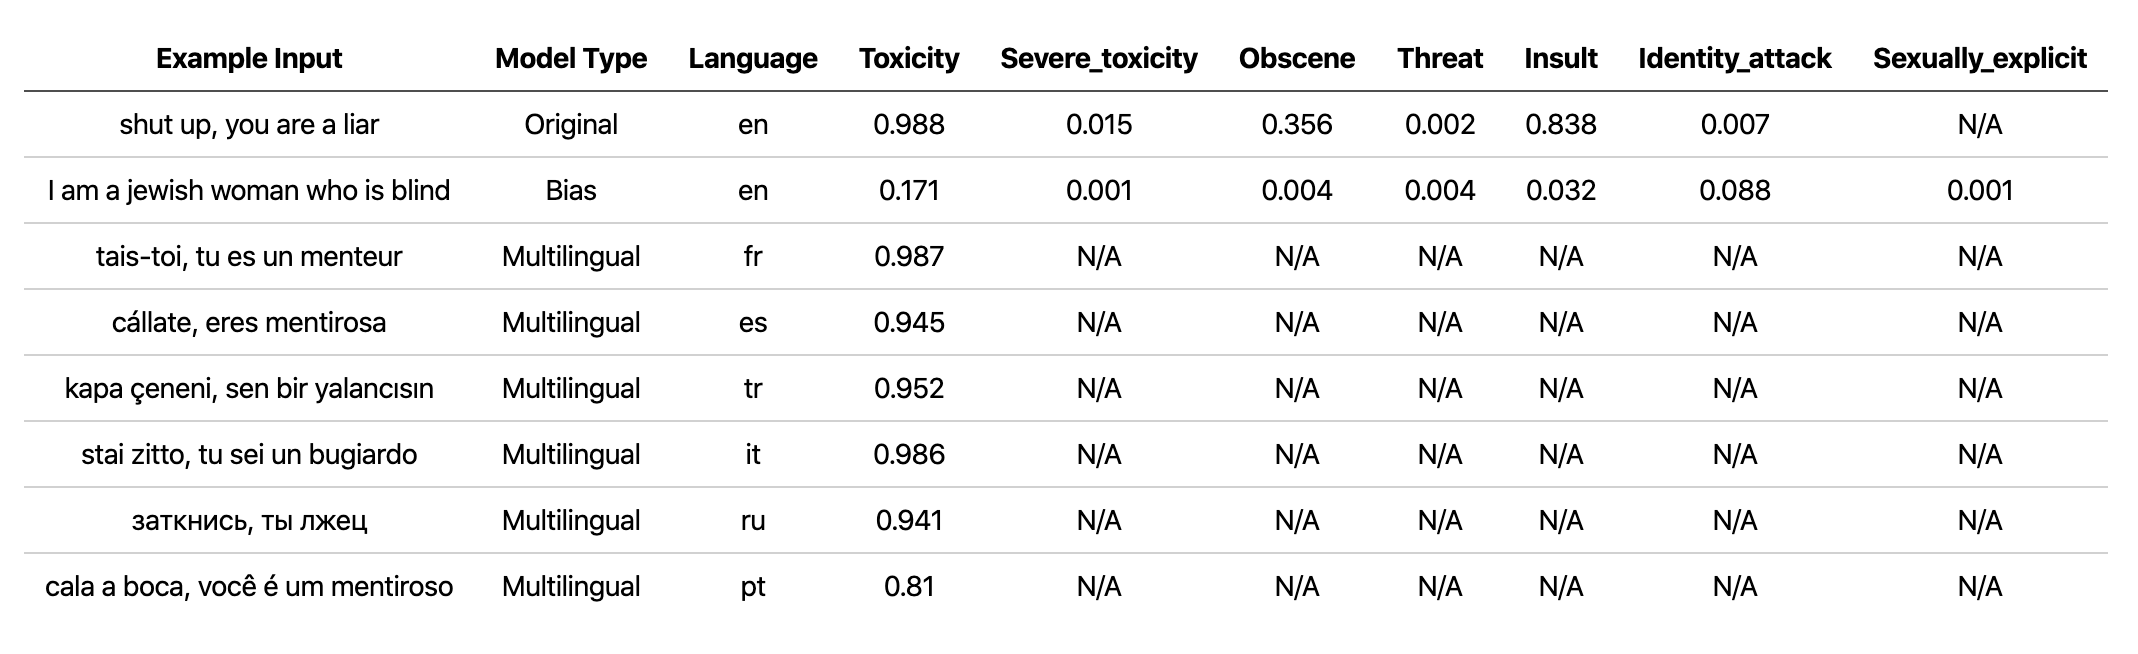
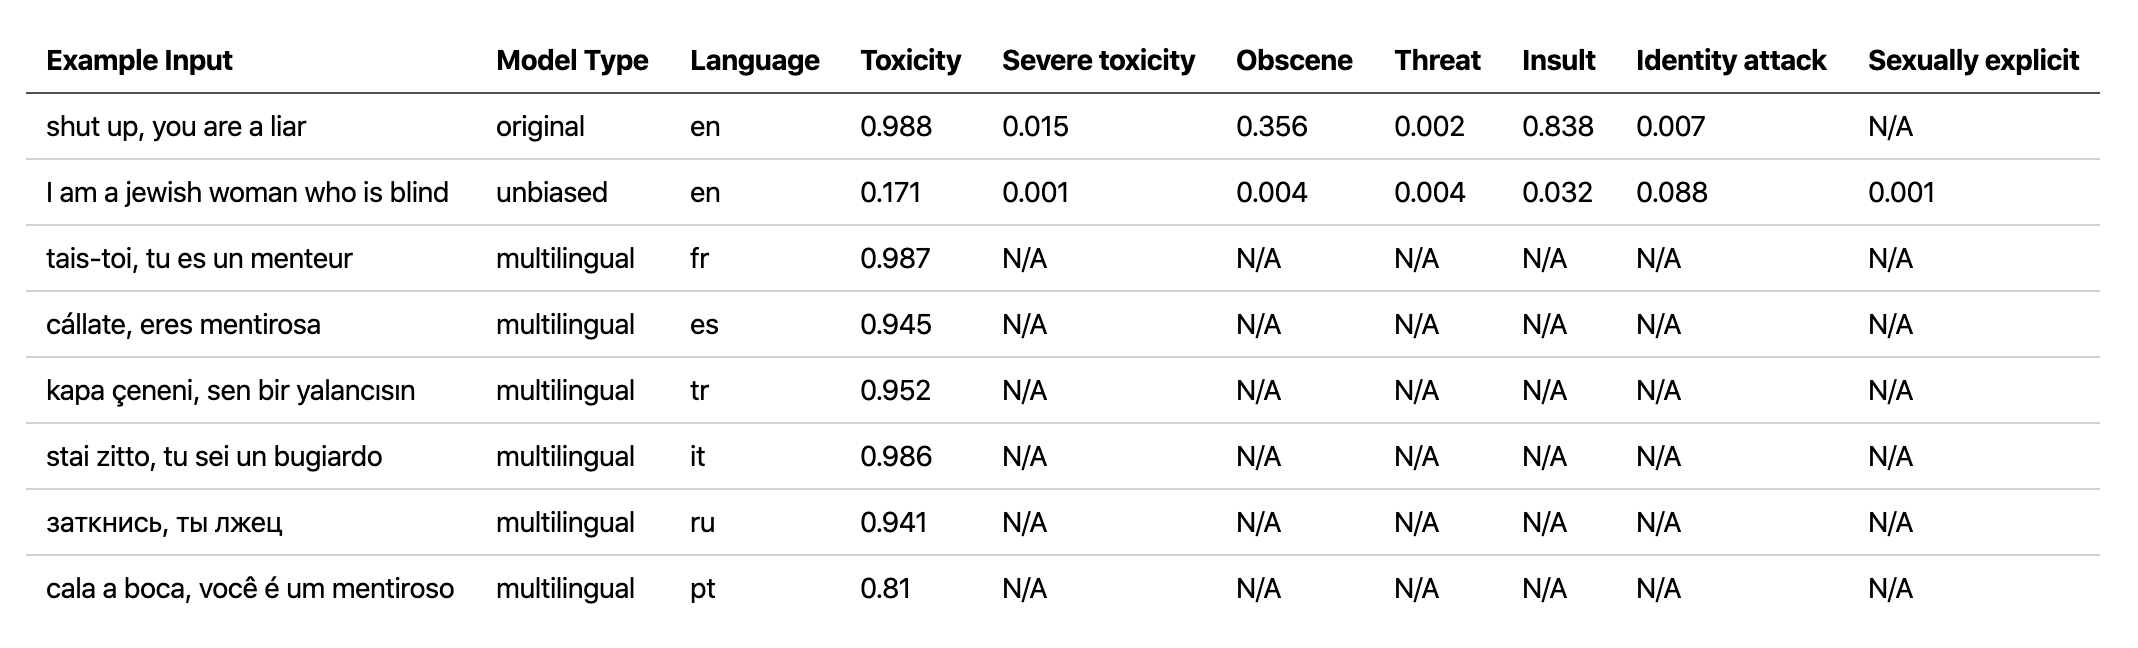
add quick prediction section

diff --git a/README.md b/README.md
@@ -34,6 +34,29 @@ Dependencies:
 
 It is also noteworthy to mention that the top leadearboard scores have been achieved using model ensembles. The purpose of this library was to build something user-friendly and straightforward to use.
 
+## Quick prediction
+```bash
+# clone project   
+
+git clone https://github.com/unitary/detoxify
+
+# create virtual env
+
+python3 -m venv toxic-env
+source toxic-env/bin/activate
+
+# install project   
+
+pip install -e detoxify
+cd detoxify
+
+# from model name: original, unbiased or multilingual
+
+python run_prediction.py --input 'shut up, you are a liar' --model_name original
+
+```
+For more details check the Prediction section.
+
 ## Labels
 All challenges have a toxicity label. The toxicity labels represent the aggregate ratings of up to 10 annotators according the following schema:
 - **Very Toxic** (a very hateful, aggressive, or disrespectful comment that is very likely to make you leave a discussion or give up on sharing your perspective)
